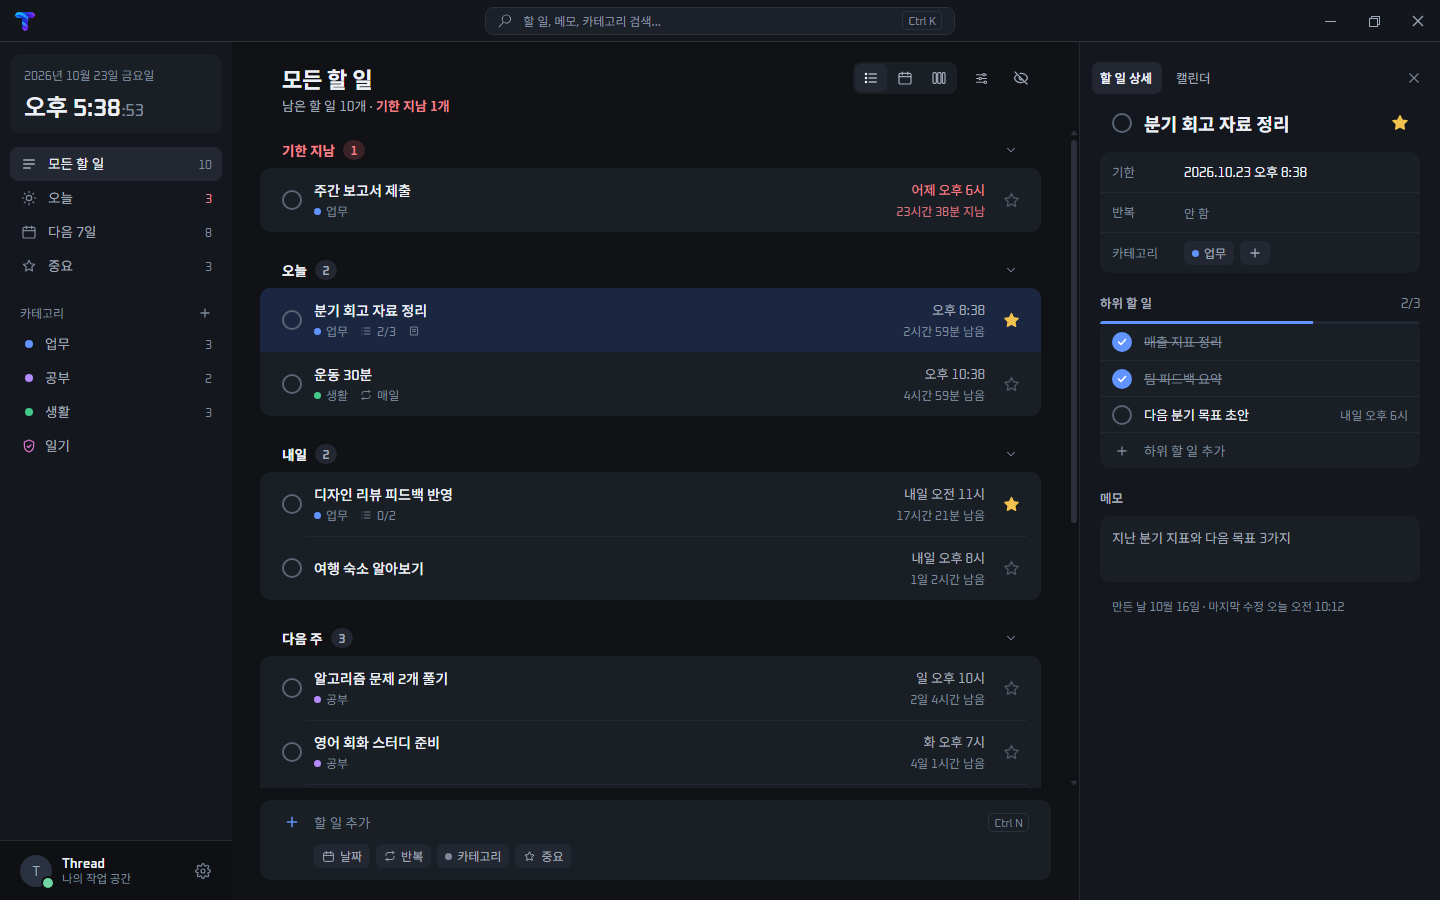
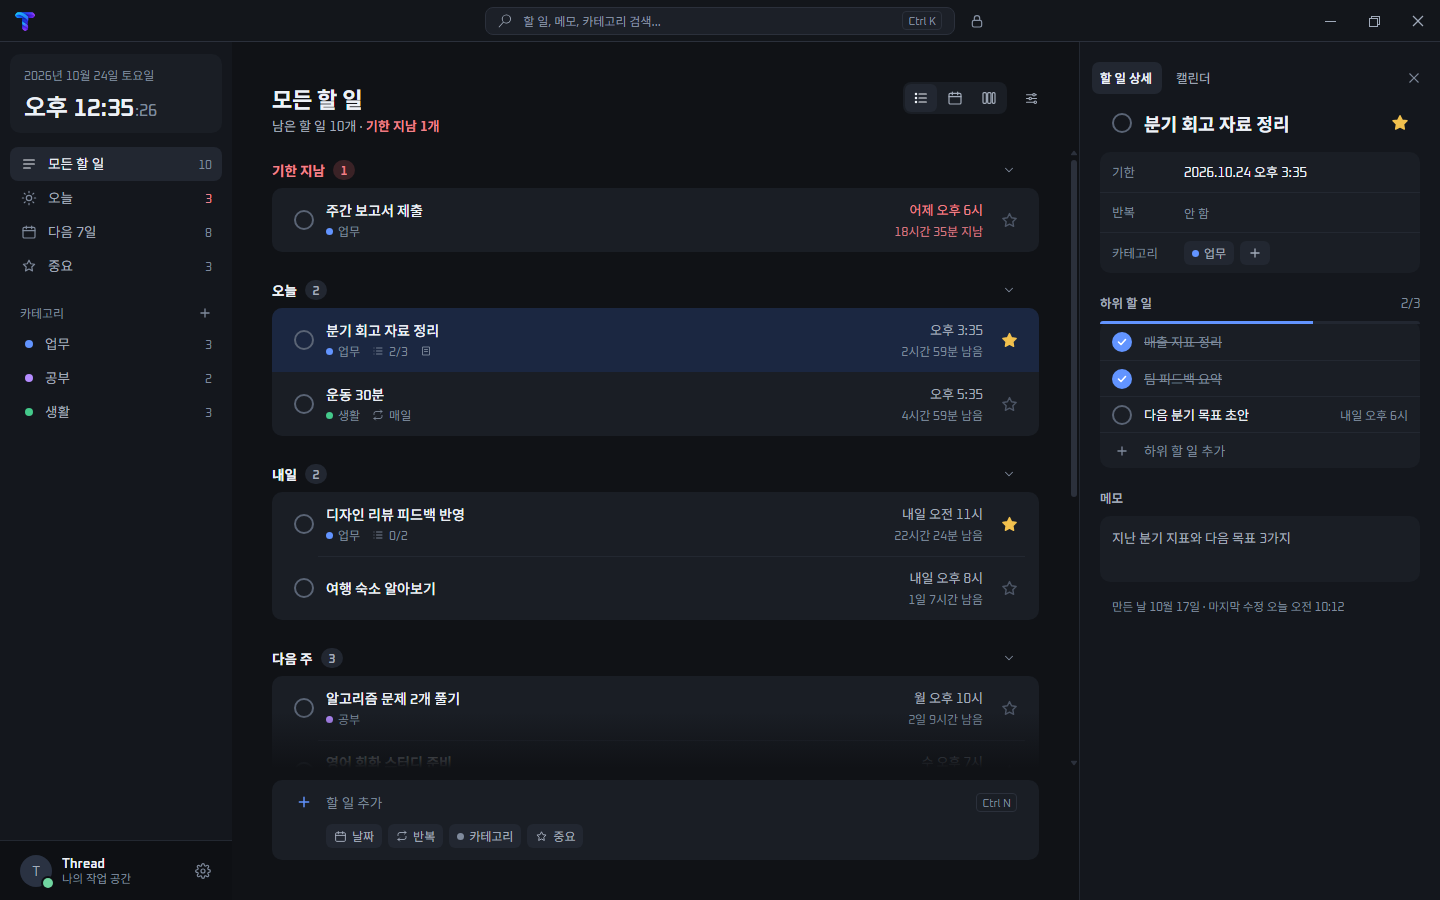
docs(site): landing preview shows the 2.3.0 main screen

diff --git a/docs/tasks/0104.md b/docs/tasks/0104.md
@@ -2,7 +2,7 @@
 
 2.2.2를 써 본 사용자 피드백(2026-10-24)을 반영해 2.3.0으로 낸다.
 
-생성: 2026-10-24 11:19 · 갱신: 2026-10-24 12:19 (KST) · 상태: 🟡 WIP
+생성: 2026-10-24 11:19 · 갱신: 2026-10-24 12:35 (KST) · 상태: 🟡 WIP
 선행: #103 · 완료 조건: 시안을 확정한 뒤 구현하고 합성 데이터 캡처와 테스트로 확인한다.
 
 ## 세부 작업
@@ -22,3 +22,4 @@
 - 2026-10-24 11:42: 시안 2차. 확정된 옵션 툴바를 없애고 Shift 점선 + 후보 고르기로 바꿈. 104.2 구현(PatchNotes.scss), 앱 미리보기 캡처로 확인.
 - 2026-10-24 11:57: 104.3 · 104.4 구현(SecretLock, useSecretSession 한 상태로, 머리글 눈 삭제, 잠긴 검색 제외, 본문 여백 40). jest 501 통과, 앱 미리보기 캡처로 목록 · 캘린더 · 타임라인 여백 40 측정. 104.5 · 104.6 추가.
 - 2026-10-24 12:19: 104.5 · 104.6 구현(RightPanel.scss rp-detail-in, ScrollFade). jest 502 통과, 앱 미리보기에서 목록 끝까지 내리면 흐려짐이 꺼지고 상세가 0.5초에 걸쳐 들어오는 것 확인.
+- 2026-10-24 12:35: 2.3.0 빌드 · TUF repo-19 게시(verifyPublishedRepository 25 files 확인), 사이트 미리보기 app-main.png 갱신.
